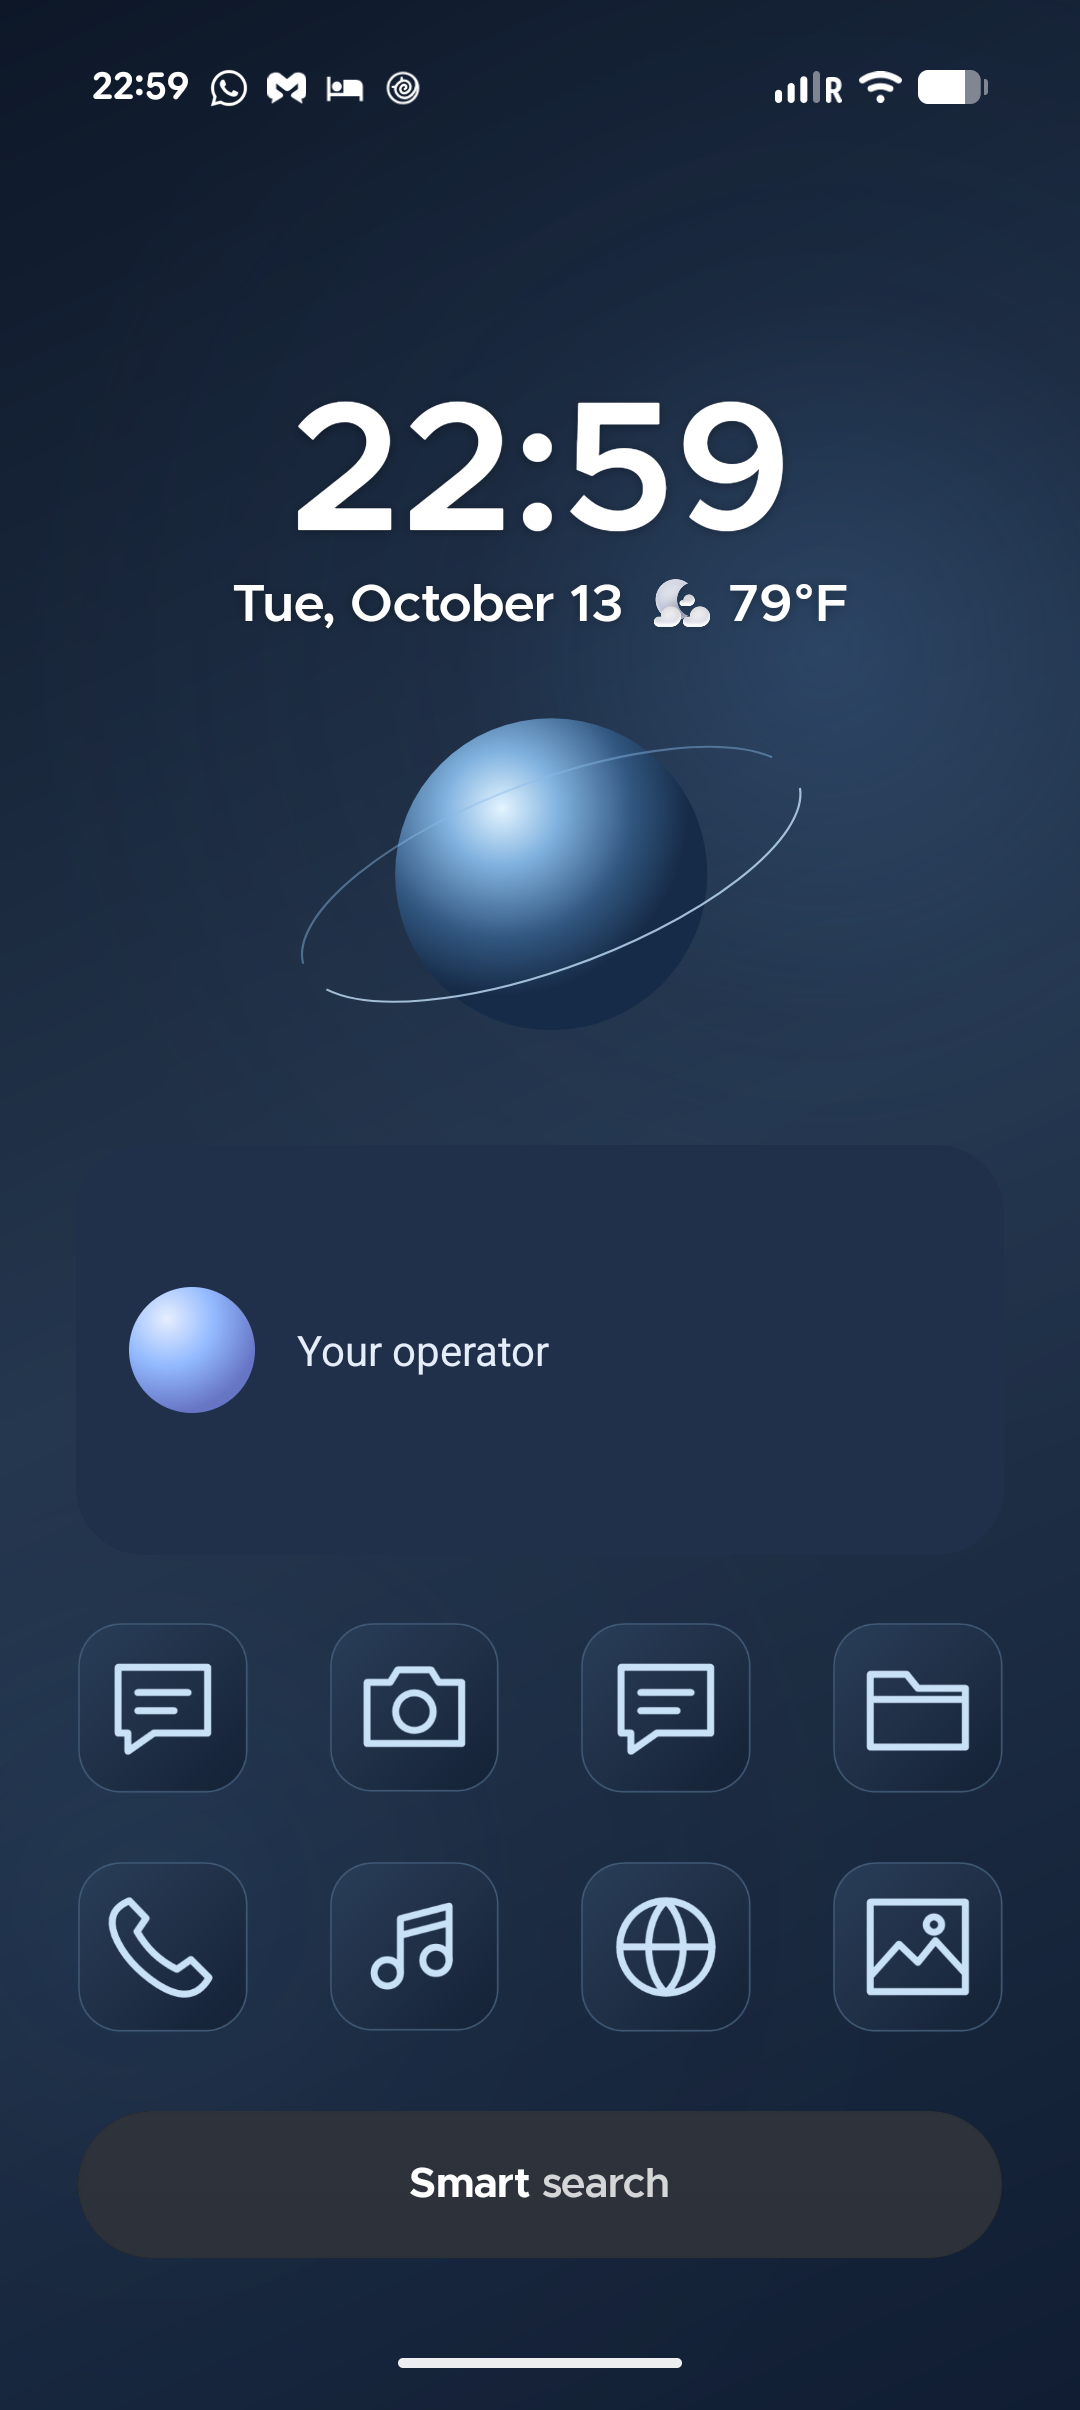
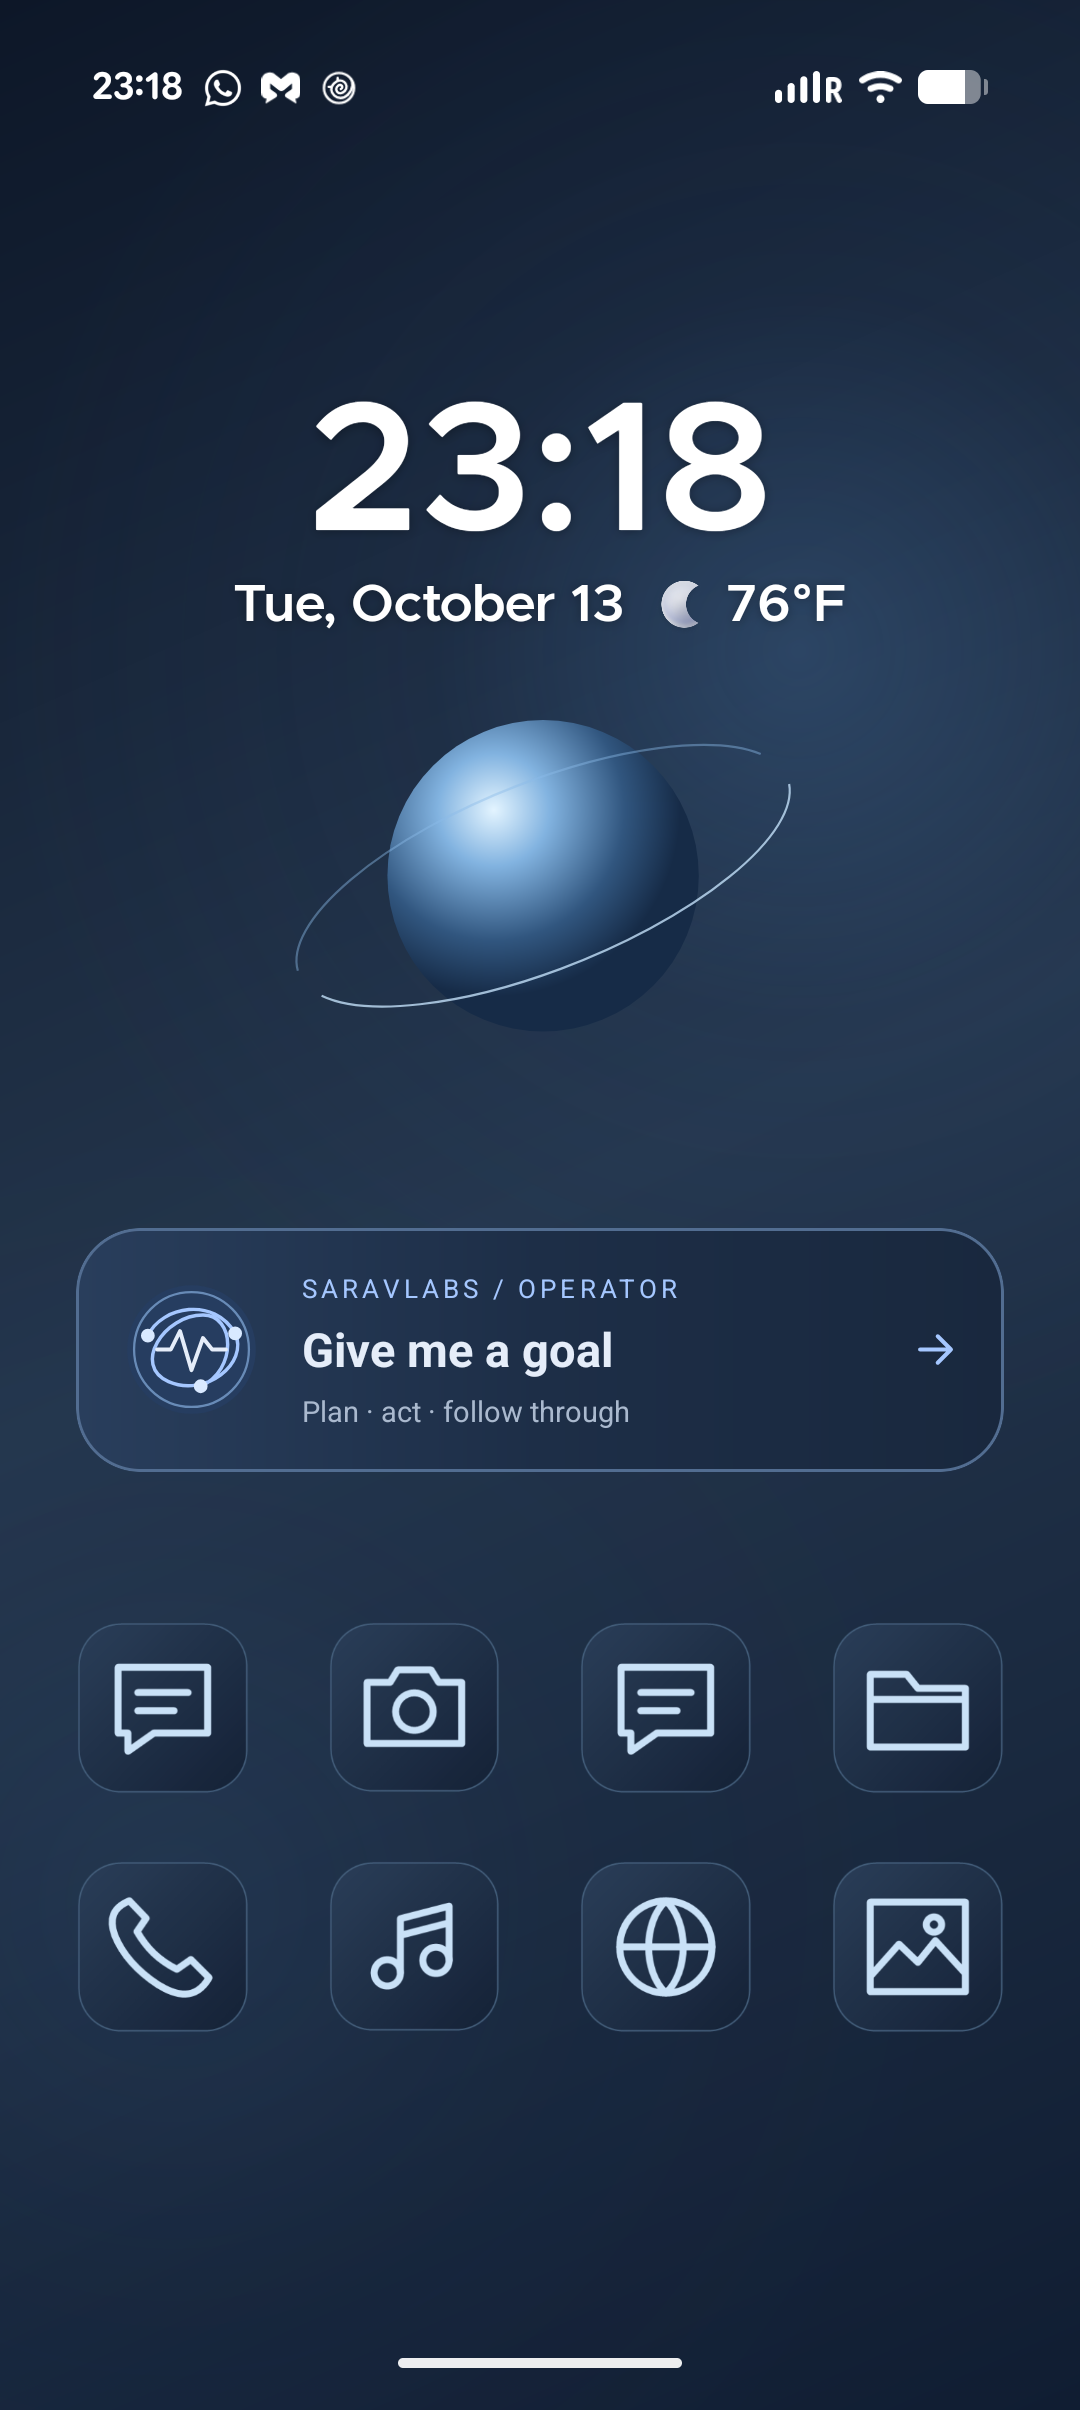
Record compact operator console and remove home search bar

diff --git a/themes/future-operator/README.md b/themes/future-operator/README.md
@@ -25,7 +25,7 @@ Android system layouts and third-party app interiors remain controlled by those 
 
 ## Source and build
 
-Assistant changes live in `C:/projects/saravlabs-andorid`, commit `8bd4f5f`, rebased onto `main` commit `165812c`. The newer learning and navigation update is preserved, and the theme styles its shared assistant presence. Approved design: `docs/design/living-midnight.md`. APK and ZIP delivery packages are kept locally; Git contains source, reproducible assets, and setup instructions.
+Assistant changes live in `C:/projects/saravlabs-andorid`, commit `65e4264`, rebased onto `main` commit `7654de7`. The newer learning and navigation update is preserved, and the theme styles its shared assistant presence. Approved design: `docs/design/living-midnight.md`. APK and ZIP delivery packages are kept locally; Git contains source, reproducible assets, and setup instructions.
 
 Run `build.ps1` from this folder to rebuild the package with the repository's Gradle wrapper. Use `build.ps1 -Verify` for its full verify gate. The helper sets Java only for its process and restores the previous value afterwards.
 
@@ -35,7 +35,7 @@ See `verification.md` for the checks actually completed and device checks still 
 
 ## Configured Pixel
 
-Smart Launcher is the default home app. The live wallpaper is applied to home and lock screens, with a centered clock and full-width operator widget below the orb. Home and app drawer use the Midnight icon pack; Messages and the Social folder received manual matching icons. The launcher's sample promotional page was removed. Android uses the first wallpaper-derived blue palette with dark mode, and Gboard uses slate gray with a blue action key. Ringtone, notification, and default alarm use the three original Midnight WAVs; existing alarm schedules were left intact.
+Smart Launcher is the default home app. The live wallpaper is applied to home and lock screens, with a centered clock and slim full-width operator console below the orb. Home and app drawer use the Midnight icon pack; Messages and the Social folder received manual matching icons. The launcher's sample promotional page and Smart Search bar were removed. Android uses the first wallpaper-derived blue palette with dark mode, and Gboard uses slate gray with a blue action key. Ringtone, notification, and default alarm use the three original Midnight WAVs; existing alarm schedules were left intact.
 
 ![Configured home screen](phone-setup.png)
 

diff --git a/README.md b/README.md
@@ -7,6 +7,6 @@ Current theme: **Living Midnight**, a living navy-and-blue appearance built arou
 
 The local delivery files are `themes/living-midnight.zip` and `themes/future-operator/saravlabs-living-midnight-debug.apk`. Generated APK/ZIP packages are excluded from Git; rebuild the APK with the helper in the setup guide.
 
-Assistant source changes are in [saravlabs-andorid, commit 8bd4f5f](https://github.com/saravanakumarvelayutham/saravlabs-andorid/commit/8bd4f5f), rebased onto main commit `165812c`. The complete repository verify gate passed, including 256 app tests. The assistant and icon pack are installed on the Pixel, with live home/lock wallpaper, Smart Launcher, operator widget, blue system colors, slate keyboard, and custom sound defaults configured. See verification for remaining behavioral checks.
+Assistant source changes are in [saravlabs-andorid, commit 65e4264](https://github.com/saravanakumarvelayutham/saravlabs-andorid/commit/65e4264), rebased onto main commit `7654de7`. The complete repository verify gate passed for the initial theme, including 256 app tests. The assistant and icon pack are installed on the Pixel, with live home/lock wallpaper, Smart Launcher, operator widget, blue system colors, slate keyboard, and custom sound defaults configured. See verification for remaining behavioral checks.
 
 The earlier Matrix artwork is retained under `themes/matrix` as the initial design; Living Midnight is the selected direction.

diff --git a/themes/future-operator/verification.md b/themes/future-operator/verification.md
@@ -2,6 +2,8 @@
 
 ## Completed
 
+- Widget refinement 65e4264, integrated with remote main 7654de7: full verify passed; 267 app tests with zero failures/errors. Installed via compatible update and visually verified. Smart Search was removed through the launcher UI; the compact neural console was centered and its tap opened the existing assistant conversation.
+
 - `gradlew :app:compileDebugKotlin :app:testDebugUnitTest --tests '*AppNavTest' :app:ktlintCheck -PincludeDevDefaults=false`: passed.
 - Repository `gradlew verify -PincludeDevDefaults=false`: passed after fixing the Windows host persistence fixtures. Includes Android lint, APK assembly, formatting, Android-module unit tests, and included-core checks.
 - Final app unit tests after integrating remote main `165812c`: **256 tests, zero failures/errors**.
@@ -38,6 +40,6 @@ Still to verify: 30-second settling, touch wake, screen-off behavior, Remove ani
 
 ## Artifact identity
 
[2 lines of base64/hex data omitted]
 
[1 lines of base64/hex data omitted]
